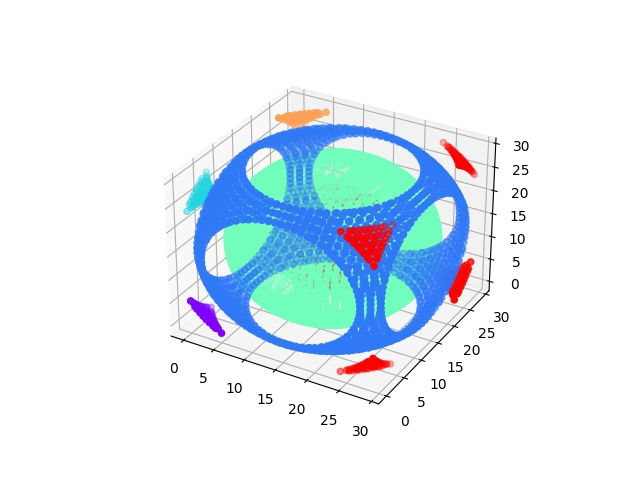
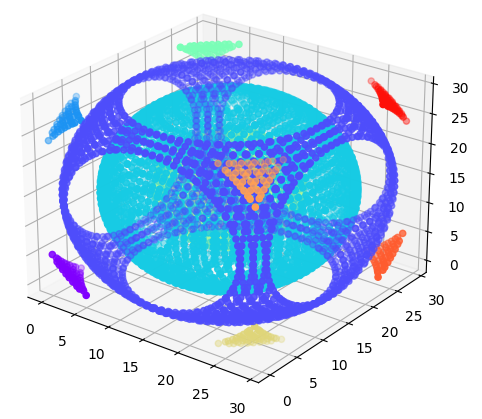
better visibility

diff --git a/test.py b/test.py
@@ -16,11 +16,7 @@ def func(X):
 Z = func(pts)
 shape = [N]*3
 isovalue = 0.0
-from time import time
-ts = time()
-for i in range(100):
-    V, F, groups = mcube.marching_cube(Z, shape, isovalue)
-print(time() - ts)
+V, F, groups = mcube.marching_cube(Z, shape, isovalue)
 
 assert sum(map(len, groups)) == len(F), str(len(F)) + " and " + str(sum(map(len, groups)))
 
@@ -29,10 +25,11 @@ cmap = cm.get_cmap(name='rainbow')
 
 fig = plt.figure()
 ax = fig.add_subplot(111, projection='3d')
-colors = [cmap(40*i) for i in range(len(groups))]
+colors = [cmap(25*i) for i in range(len(groups))]
 for group, color in zip(groups, colors):
     idx_verts = list(set(F[group].flatten()))
     ax.scatter(V[idx_verts, 0], V[idx_verts, 1], V[idx_verts, 2], c=color)
+plt.tight_layout()
 plt.show()
 
 """
